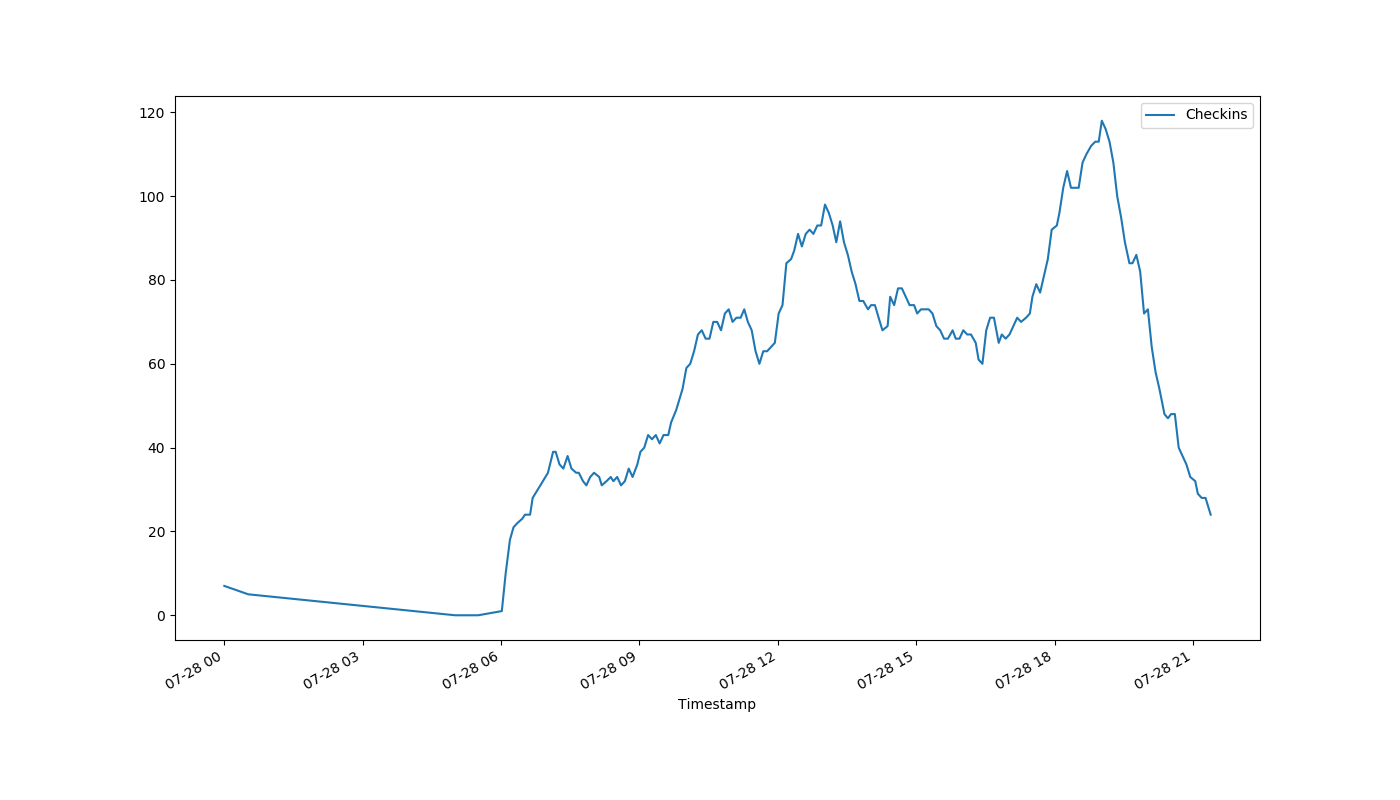
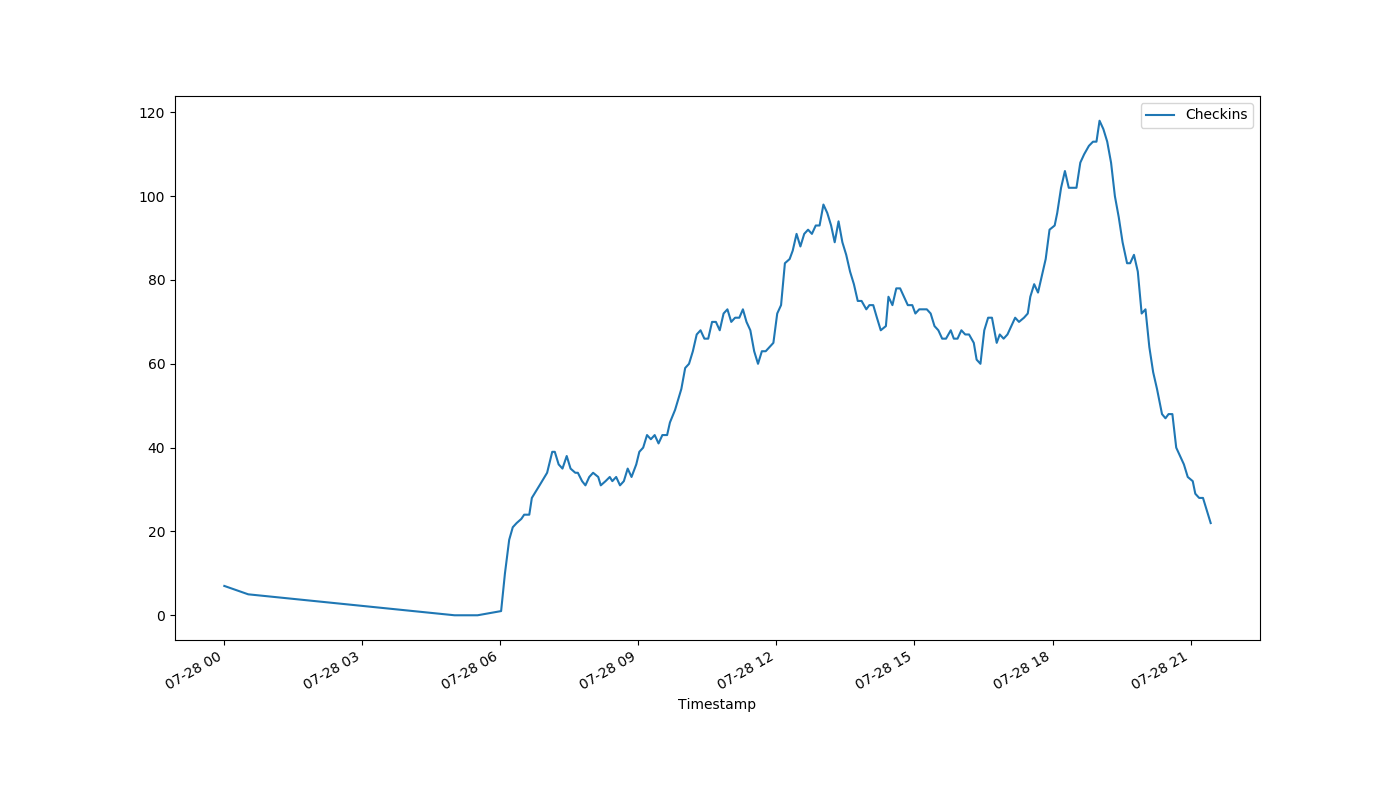
auto-Jul-28-21:28:15

diff --git a/index.html b/index.html
@@ -1,1 +1,1 @@
-<!DOCTYPE html><html><head><meta http-equiv="refresh" content="30"><link rel='stylesheet' href='holmcurrent.css'></head><body><p id='count'>24</p><div id='graph-wrap'><img id='graph' src='holmgraph-Jul-28.png'></div><p id='updated'>Last updated 21:23:04 / 21:22:51</p></body></html>
+<!DOCTYPE html><html><head><meta http-equiv="refresh" content="30"><link rel='stylesheet' href='holmcurrent.css'></head><body><p id='count'>22</p><div id='graph-wrap'><img id='graph' src='holmgraph-Jul-28.png'></div><p id='updated'>Last updated 21:27:04 / 21:26:11</p></body></html>
